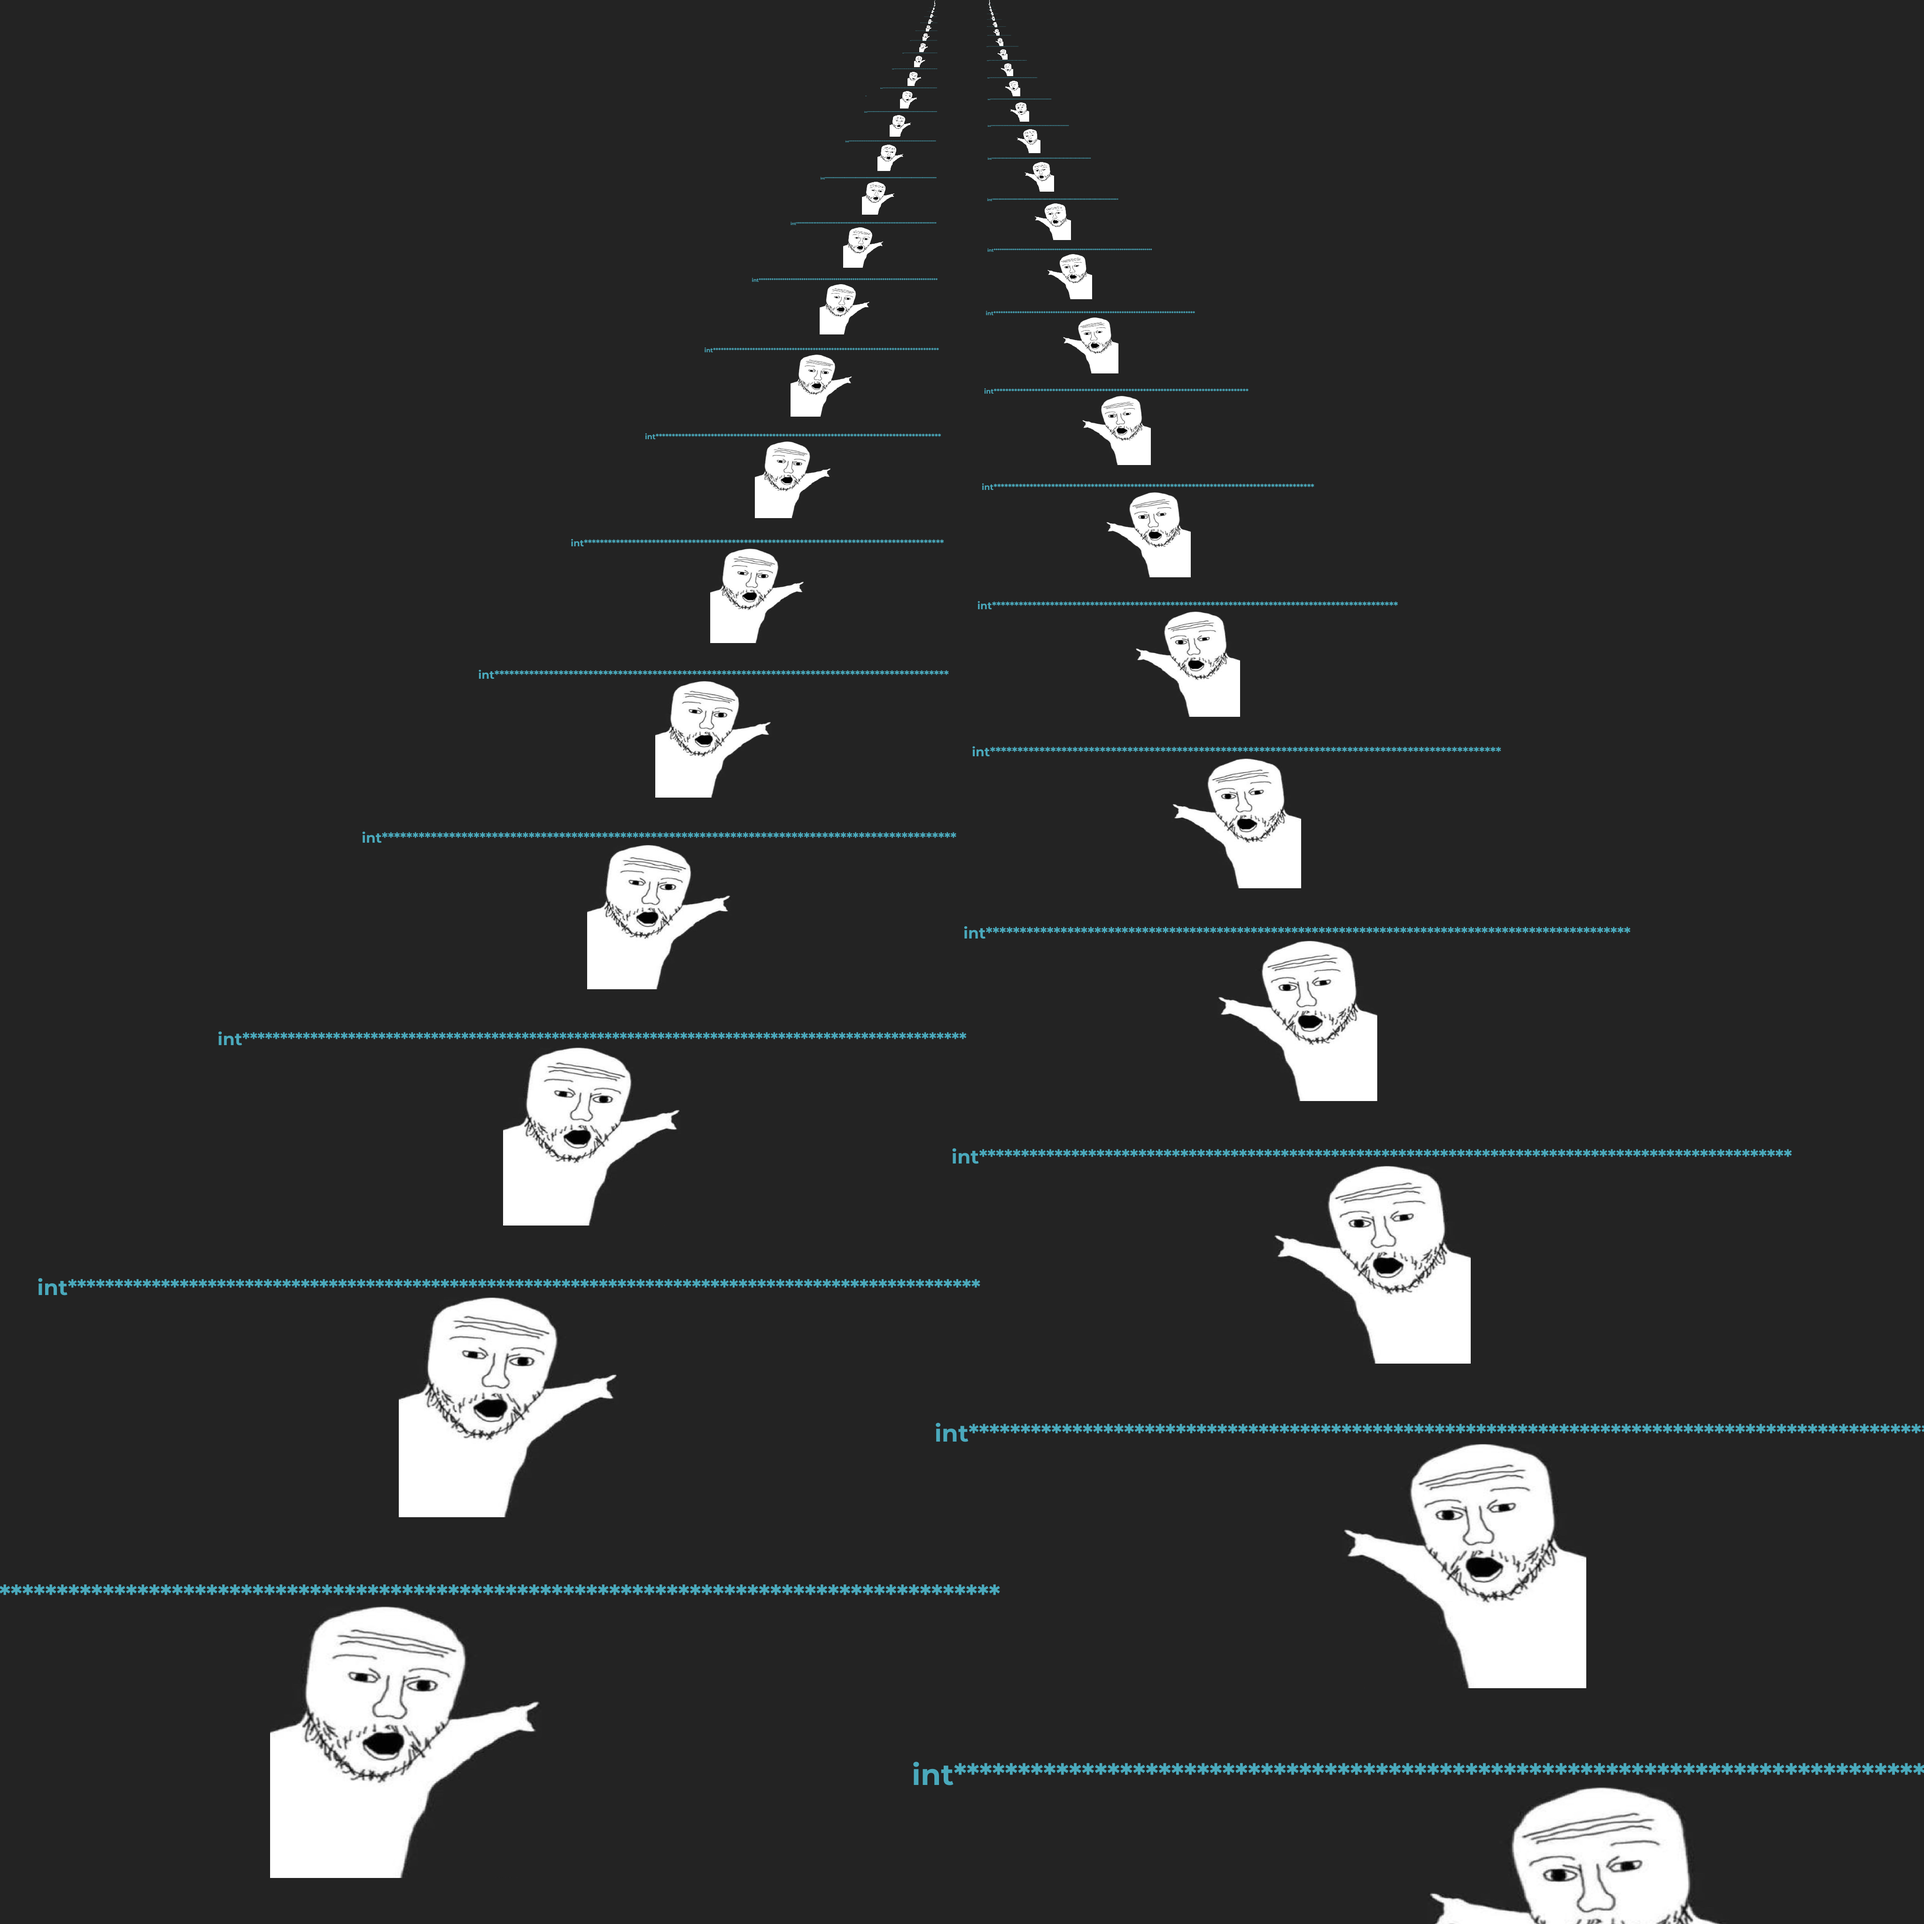
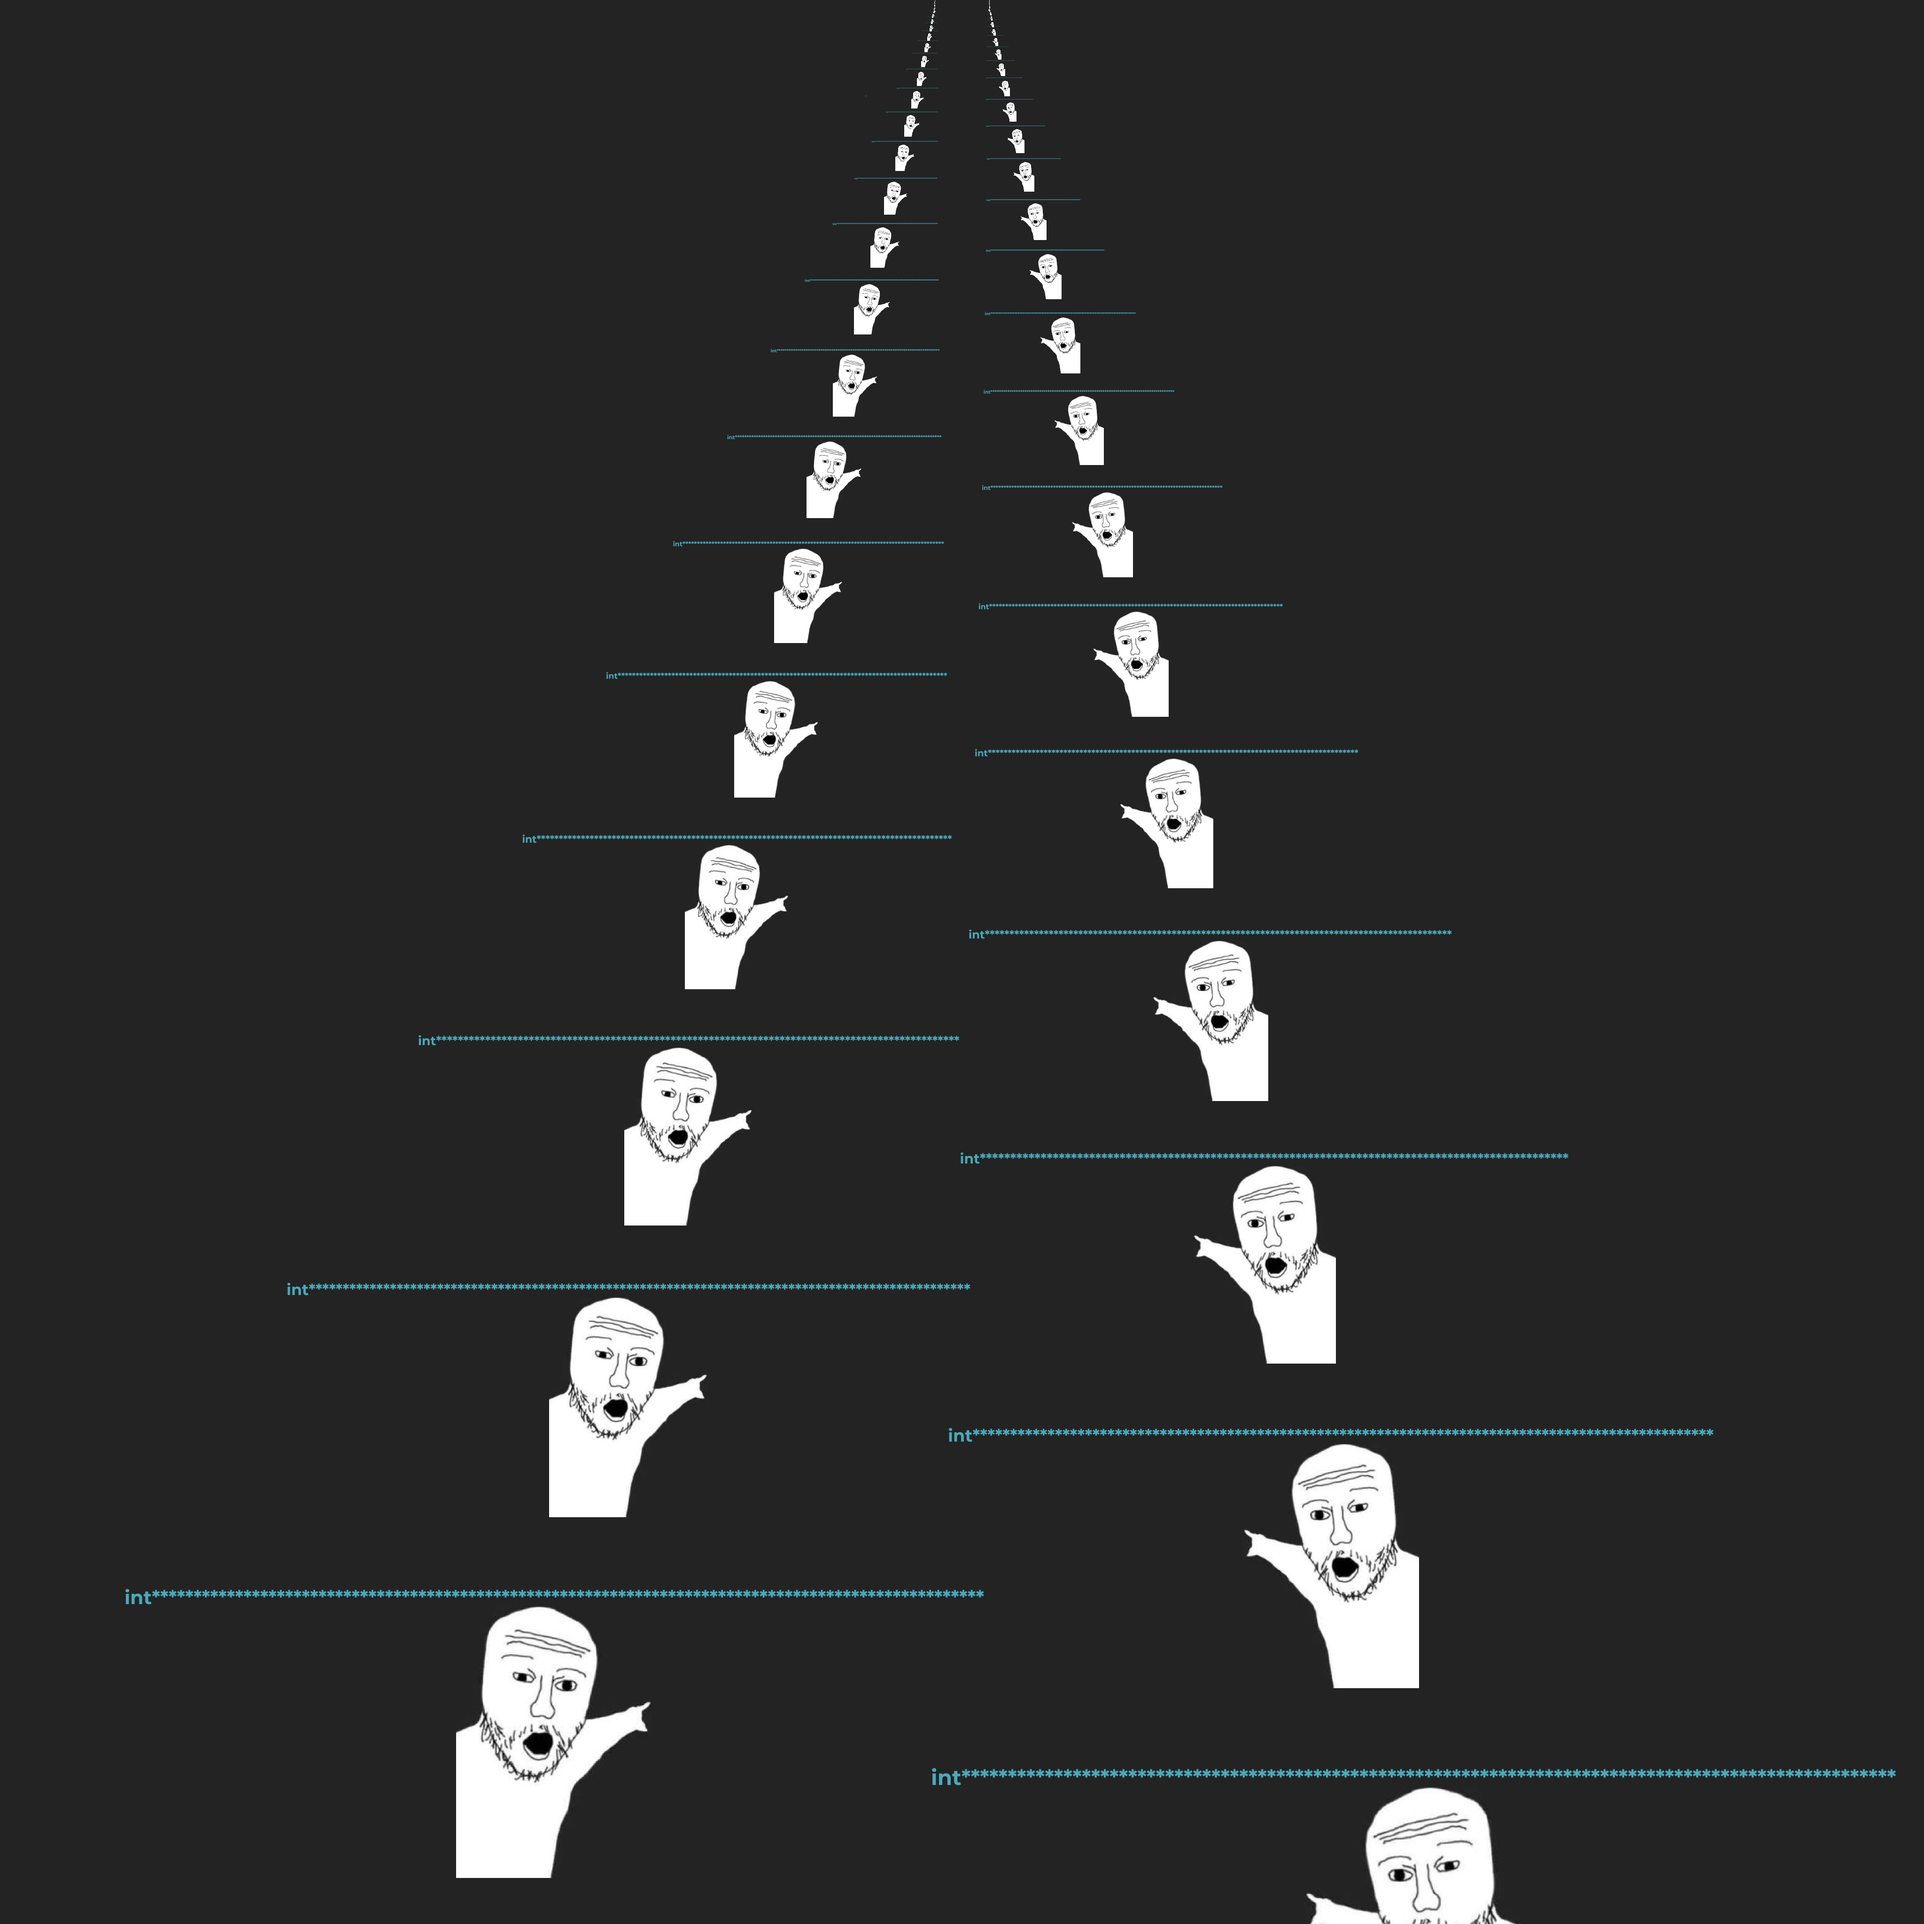
🦆🦆🦆🦆🦆

Changed region(s): [[0.0, 0.0312, 0.9062, 1.0], [0.4688, 0.9062, 1.0, 1.0]]

diff --git a/main.go b/main.go
@@ -26,24 +26,26 @@ type DudeGenerator struct {
 func main() {
 	imager := DudeGenerator{}
 	imager.GenerateBackground(4096, 4096)
-	imager.GeneraterPointerDudes()
+	imager.GeneratePointerDudes()
 }
 
-func (c *DudeGenerator) GeneraterPointerDudes() {
+func (c *DudeGenerator) GeneratePointerDudes() {
 	// setup
 	numDudes := 101
-	horizDisplacementFactor := .2
-	vertIncrementFactor := .6
+
+	// scaling
 	dudeScalingFactor := .9
+
+	// positioning
+	horizDisplacementFactor := .2
+	vertDisplacementFactor := .6
+	heightOffset := 0
+	widthOffset := c.width / 70
 
 	// ptr dude
 	originalDude := c.LoadImage(pointerGuyPath)
-	dudeHeight := originalDude.Bounds().Max.Y
+	dudeHeight := originalDude.Bounds().Max.X
 	dudeWidth := originalDude.Bounds().Max.Y
-
-	// positioning
-	heightOffset := 0
-	widthOffset := c.width / 70
 
 	pointerString := "int"
 
@@ -54,7 +56,7 @@ func (c *DudeGenerator) GeneraterPointerDudes() {
 
 		// increment offsets
 		widthOffset += int(float64(scaledDude.Rect.Dx()) * horizDisplacementFactor)
-		heightOffset += int(float64(scaledDude.Rect.Dy()) * vertIncrementFactor)
+		heightOffset += int(float64(scaledDude.Rect.Dy()) * vertDisplacementFactor)
 
 		// calculate vertical and horizontal positions
 		hPos := c.width / 2

diff --git a/readme.md b/readme.md
@@ -1,7 +1,7 @@
 To run:
 `go run main.go`
 
-Play around by tweaking these values in `GeneraterPointerDudes()`:
+Play around by tweaking these values in `GeneratePointerDudes()`:
 ```go
 numDudes := 101
 horizDisplacementFactor := .2
